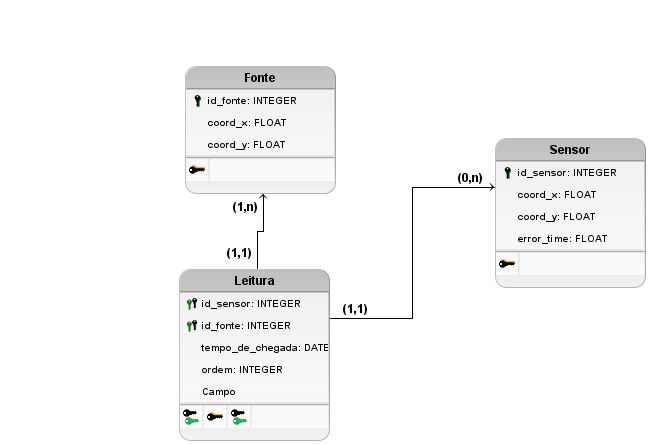
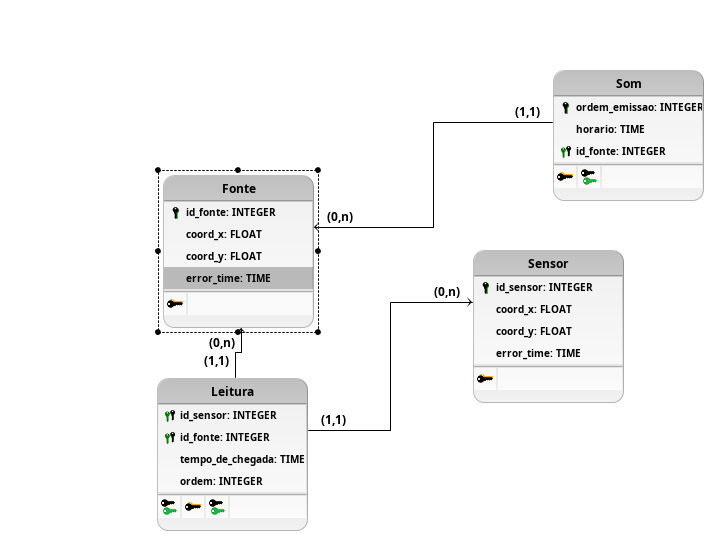
Modelo atualizado

diff --git a/modelos/modelo_de_dados.md b/modelos/modelo_de_dados.md
@@ -1,45 +1,65 @@
-# Dicionário de Dados
+# Dicionário de Dados - Sistema de Trilateração por TOA
 
-## Tabela: Fonte
-Armazena informações sobre as fontes sonoras no sistema.
+## Tabelas e Descrição dos Campos
 
-| **Atributo** | **Tipo**  | **Descrição**                           | **Restrição**         |
-|--------------|-----------|-----------------------------------------|-----------------------|
-| `id_fonte`   | INTEGER   | Identificador único da fonte sonora.    | Chave primária, único.|
-| `coord_x`    | FLOAT     | Coordenada X da posição da fonte.       | Não nulo.             |
-| `coord_y`    | FLOAT     | Coordenada Y da posição da fonte.       | Não nulo.             |
+### 1. **Fonte**
+Armazena as coordenadas das fontes sonoras que emitem os pulsos sonoros.
 
----
-
-## Tabela: Sensor
-Registra informações sobre os sensores que realizam as leituras das fontes sonoras.
-
-| **Atributo** | **Tipo**  | **Descrição**                           | **Restrição**         |
-|--------------|-----------|-----------------------------------------|-----------------------|
-| `id_sensor`  | INTEGER   | Identificador único do sensor.          | Chave primária, único.|
-| `coord_x`    | FLOAT     | Coordenada X da posição do sensor.      | Não nulo.             |
-| `coord_y`    | FLOAT     | Coordenada Y da posição do sensor.      | Não nulo.             |
-| `error_time` | FLOAT     | Erro de tempo associado ao sensor (em ms). | Pode ser nulo.      |
+| Nome do Campo | Tipo de Dado | Descrição |
+|--------------|-------------|------------|
+| `id_fonte`   | INTEGER (PK) | Identificador único da fonte sonora |
+| `coord_x`    | FLOAT       | Coordenada X da fonte sonora |
+| `coord_y`    | FLOAT       | Coordenada Y da fonte sonora |
+| `error_time` | TIME        | Margem de erro na medição do tempo|
 
 ---
 
-## Tabela: Leitura
-Armazena as leituras realizadas pelos sensores em relação às fontes sonoras.
+### 2. **Som**
+Registra os eventos de emissão dos pulsos sonoros pelas fontes sonoras.
 
-| **Atributo**        | **Tipo**  | **Descrição**                                     | **Restrição**                  |
-|----------------------|-----------|-------------------------------------------------|--------------------------------|
-| `id_sensor`          | INTEGER   | Referência ao identificador do sensor.           | Chave estrangeira para `Sensor`. |
-| `id_fonte`           | INTEGER   | Referência ao identificador da fonte sonora.     | Chave estrangeira para `Fonte`. |
-| `tempo_de_chegada`   | DATE      | Horário em que o som foi detectado pelo sensor.  | Não nulo.                     |
-| `ordem`              | INTEGER   | Ordem da leitura na lista de sensores.           | Não nulo.                     |
-| `campo`              | TEXT      | Informações adicionais relacionadas à leitura.   | Pode ser nulo.                |
+| Nome do Campo      | Tipo de Dado | Descrição |
+|-------------------|-------------|------------|
+| `ordem_emissao`  | INTEGER (PK) | Número sequencial da emissão do pulso por uma fonte |
+| `horario`        | TIME        | Horário exato em que o pulso foi emitido |
+| `id_fonte`       | INTEGER (FK) | Identificador da fonte sonora que emitiu o pulso |
 
-# Modelo do banco de dados NoSQL
+🔗 **Chave Estrangeira**:  
+- `id_fonte` → **Fonte(id_fonte)**
 
-```json
-{
-    "ordem": [],
-    "sincronizado":[]
-}
-```
+---
 
+### 3. **Sensor**
+Armazena as informações sobre os sensores que captam os sinais emitidos pela fonte sonora.
+
+| Nome do Campo | Tipo de Dado | Descrição |
+|--------------|-------------|------------|
+| `id_sensor`  | INTEGER (PK) | Identificador único do sensor |
+| `coord_x`    | FLOAT       | Coordenada X do sensor |
+| `coord_y`    | FLOAT       | Coordenada Y do sensor |
+| `error_time` | TIME        | Margem de erro na medição do tempo de chegada do som |
+
+---
+
+### 4. **Leitura**
+Registra as leituras dos sensores, associando-as a um evento de emissão sonora.
+
+| Nome do Campo     | Tipo de Dado | Descrição |
+|------------------|-------------|------------|
+| `id_sensor`      | INTEGER (PK, FK) | Identificador do sensor que captou o som |
+| `id_fonte`       | INTEGER (PK, FK) | Identificador da fonte sonora associada à leitura |
+| `tempo_de_chegada` | TIME        | Tempo registrado pelo sensor ao detectar o som |
+| `ordem`          | INTEGER      | Ordem de detecção do pulso pelo sensor |
+
+🔗 **Chaves Estrangeiras**:  
+- `id_sensor` → **Sensor(id_sensor)**  
+- `id_fonte` → **Fonte(id_fonte)**  
+
+---
+
+## 📌 Observações Gerais
+- As tabelas `Fonte`, `Sensor` e `Som` armazenam informações estáticas, enquanto `Leitura` contém os registros dinâmicos das medições.
+- A combinação `ordem_emissao` e `id_fonte` define a chave primária da tabela `Som`, garantindo que cada evento seja único para uma determinada fonte.
+- A tabela `Leitura` usa uma chave composta (`id_sensor`, `id_fonte`) para garantir que cada sensor registre corretamente a detecção do som.
+
+---
+📌 **Este dicionário de dados documenta a estrutura da base de dados utilizada para a trilateração via TOA (Time of Arrival) e pode ser expandido conforme novas funcionalidades forem adicionadas ao sistema.**

diff --git a/modelos/modelo_api.md b/modelos/modelo_api.md
@@ -43,7 +43,7 @@
 ```
 
 ### **PATCH - `/sincronizacao`**
-**Descrição**: Sincroniza os horários do sensor com o horário do servidor (referência).
+**Descrição**: Sincroniza os horários do sensor e da fonte com o horário do servidor (referência).
 
 **Funcionamento**:
 - Calcula o erro entre o horário do computador (servidor de referência) e o horário do celular.
@@ -60,7 +60,8 @@
 {
     "coord_x": 10.1,
     "coord_y": 0.4,
-    "hora_atual": "10:10:01"
+    "hora_atual": "10:10:01",
+    "tipo":"fonte"
 }
 ```
 
@@ -82,6 +83,28 @@
     "coord_x": 10.1,
     "coord_y": 0.4
 }
+```
+
+---
+
+### **POST - `/som_enviado`**
+**Descrição**: Recebe o horario do envio do som
+
+**Funcionamento**:
+- Armazena a informação na tabela `Som`.
+
+**Status HTTP**:
+- `202 Accepted`: Som recebido.
+- `400 Bad Request`: Dados enviados estão incompletos ou inválidos.
+- `500 Internal Server Error`: Falha ao salvar a leitura ou ao acionar o cálculo.
+
+**Exemplo de Dados Esperados**:
+```json
+{
+    "id_fonte": 1,
+    "hora_de_emissao": "10:10:01"
+}
+
 ```
 
 
